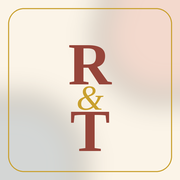
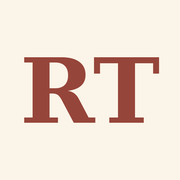
Add files via upload

diff --git a/index.html b/index.html
@@ -204,7 +204,7 @@ body{
 /* Home hero */
 .hero-card{ margin:4px 16px 20px; background:var(--card); border:1px solid var(--line); border-radius:16px; padding:30px 24px 26px; text-align:center; box-shadow:var(--shadow); }
 .hero-names{ font-family:'Cormorant Garamond',serif; font-weight:600; font-size:32px; color:var(--heading); letter-spacing:.01em; }
-.hero-names .amp{ color:var(--gold); font-style:italic; padding:0 5px; }
+.hero-names .amp{ color:var(--heading); font-style:normal; font-weight:500; padding:0 6px; }
 .hero-rule{ width:34px; height:1px; background:var(--gold); opacity:.55; margin:16px auto; }
 .hero-sub{ color:var(--ink-soft); font-size:11.5px; letter-spacing:.02em; }
 .hero-count{ margin-top:20px; display:flex; flex-direction:column; align-items:center; gap:1px; }
@@ -241,7 +241,7 @@ body{
 .login-screen{ position:absolute; inset:0; z-index:100; background:var(--cream); display:flex; flex-direction:column; align-items:center; justify-content:center; padding:32px 30px calc(env(safe-area-inset-bottom) + 32px); text-align:center; }
 .login-screen.hidden{ display:none; }
 .login-mark{ font-family:'Cormorant Garamond',serif; font-weight:600; font-size:38px; color:var(--heading); margin-bottom:4px; }
-.login-mark .amp{ color:var(--gold); font-style:italic; padding:0 6px; }
+.login-mark .amp{ color:var(--heading); font-style:normal; font-weight:500; padding:0 6px; }
 .login-tag{ color:var(--ink-soft); font-size:12.5px; margin-bottom:26px; letter-spacing:.01em; }
 .login-field{ width:100%; max-width:280px; }
 .login-field input{ width:100%; border:1px solid var(--line); background:var(--card); border-radius:12px; padding:13px 14px; font-size:15px; color:var(--ink); font-family:inherit; outline:none; text-align:center; }
